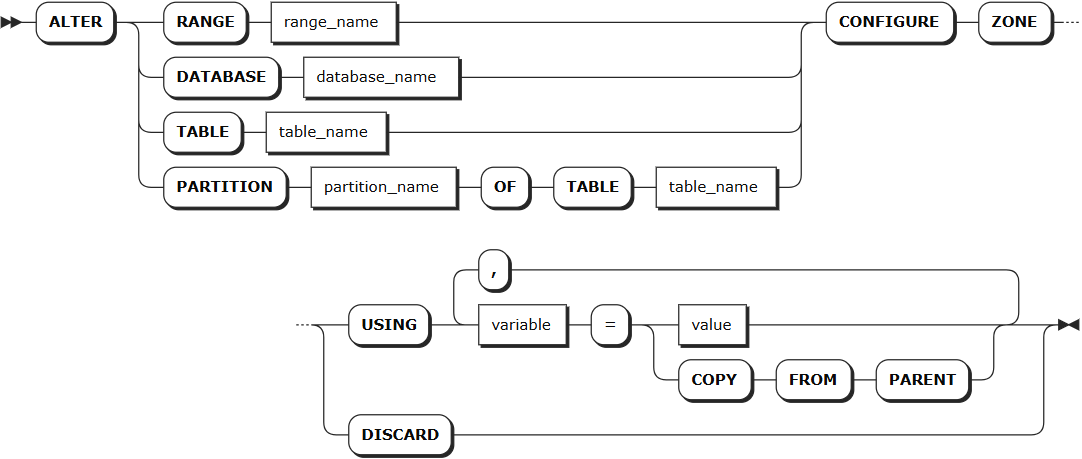
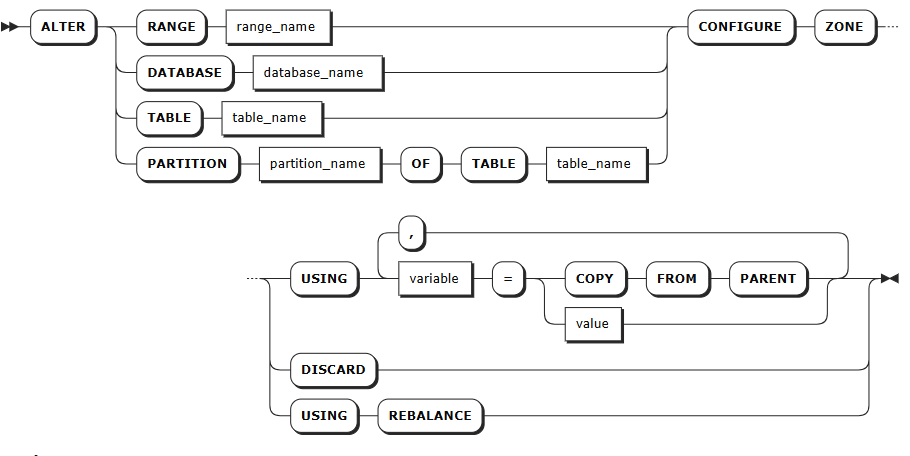
add updates for hash and rebalance

Changed region(s): [[0.0, 0.0, 1.0, 1.0]]

diff --git a/sql-reference/ddl/ts-db/ts-database.md b/sql-reference/ddl/ts-db/ts-database.md
@@ -7,7 +7,6 @@ id: ts-database
 
 作为一款多模数据库系统，KWDB 支持用户在一个 KWDB 实例中创建一个或多个数据库对象（Database）用来管理时序和关系数据。其中专门用于存储和管理时间数据的数据库对象为时序数据库（Time Series Database）。时序数据库中包括 public 模式和用户自定义的时序表。
 
-
 ## 创建数据库
 
 `CREATE TS DATABASE` 语句用于创建时序数据库，每条语句只支持创建一个时序数据库。
@@ -207,11 +206,15 @@ USE ts_db;
 
 ## 修改数据库
 
-`ALTER DATABASE` 语句用于修改数据库的名称和生命周期。
+`ALTER DATABASE` 语句用于修改数据库的名称、生命周期和区域配置。
 
 ### 所需权限
 
-用户为 Admin 用户或者 Admin 角色成员。
+- 修改数据库的名称：用户为 Admin 用户或者 Admin 角色成员。
+- 修改数据库生命周期：用户为 Admin 用户或者 Admin 角色成员。
+- 修改数据库区域设置
+  - 修改系统数据库区域配置：用户为 Admin 用户或 Admin 角色成员。
+  - 修改其他数据库区域配置：用户拥有目标数据库的 CREATE 或 ZONECONFIG 权限。
 
 ### 语法格式
 
@@ -223,6 +226,10 @@ USE ts_db;
 
     ![](../../../static/sql-reference/Ab69bP86UozqWDxtCLMc3vxznwh.png)
 
+- 修改数据库的区域配置
+
+    ![](../../../static/sql-reference/alter-db-zone-ts.png)
+
 ### 参数说明
 
 | 参数 | 说明 |
@@ -231,6 +238,11 @@ USE ts_db;
 | `new_name` | 拟修改的数据库名称，新数据库名称必须唯一，并且遵循[数据库标识符规则](../../sql-identifiers.md)。目前，数据库名称不支持中文字符，最大长度不能超过 63 个字节。|
 | `database_name` | 待修改的数据库名称。|
 | `keep_duration` | 可选参数，设置数据库的数据生命周期。数据超过此时长后将被系统自动清除。<br>默认值： `0s`（永久保留）<br>时间单位：<br>- 秒：`s` 或 `second`<br>- 分钟：`m` 或 `minute`<br>- 小时：`h` 或 `hour`<br>- 天：`d` 或 `day`<br>- 周：`w` 或 `week`<br>- 月：`mon` 或 `month`<br>- 年：`y` 或 `year`<br>取值范围:正整数，上限为 1000 年<br>**说明：**<br>- 表级设置优先于库级设置。<br>- 保留时长越长，存储空间占用越大，请根据业务需求合理配置。<br>- 如果待写入的数据已超过生命周期限制，系统会直接丢弃该数据，不予写入。|
+| `variable` | 要修改的变量名，时序库支持修改以下变量：<br>- `range_min_bytes`：分区的最小大小，单位为字节。分区小于该值时，KaiwuDB 会将其与相邻分区合并。默认值：256 MiB，设置值应大于 1 MiB（1048576 字节），小于分区的最大大小。 <br>- `range_max_bytes`：分区的最大大小，单位为字节。分区大于该值时，KaiwuDB 会将其切分到两个分区。默认值： 512 MiB。设置值不得小于 5 MiB（5242880 字节）。<br>- `gc.ttlseconds`：数据在垃圾回收前保留的时间，单位为秒。默认值为 `90000`（25 小时）。设置值建议不小于 600 秒（10 分钟），以免影响长时间运行的查询。设置值较小时可以节省磁盘空间，设置值较大时会增加 `AS OF SYSTEM TIME` 查询的时间范围。另外，由于每行的所有版本都存储在一个永不拆分的单一分区内，不建议将该值设置得太大，以免单行的所有更改累计超过 64 MiB，导致内存不足或其他问题。<br>- `num_replicas`：副本数量。默认值为 3。`system` 数据库、`meta`、`liveness` 和 `system` 分区的默认副本数为 5。 **注意**：集群中存在不可用节点时，副本数量不可缩减。<br>- `ts_merge.days`：时序分区合并时间。同一个时序表同哈希点按照时间戳分裂后，超过该时间的分区将自动合并，且合并后不会再自动拆分。默认值：10（10天）。设置值必须大于等于 0，设置值为 0 时表示时序分区按照时间戳分裂后便立刻自动合并。系统分区数量过多导致出现网络等故障时可以将该值适当调小，以缓解数据过大的问题。**提示：**  KaiwuDB 默认只根据哈希点拆分分区，因此分区按时间合并功能默认关闭，如需支持按时间合并分区，需将 `kv.kvserver.ts_split_interval` 实时参数设置为 `1`, 将 `kv.kvserver.ts_split_by_timestamp.enabled` 实时参数设置为 `true` 以支持按照哈希点和时间戳拆分分区。 |
+| `value` | 变量值。 |
+|`COPY FROM PARENT`| 使用父区域的设置值。|
+|`USING REBALANCE` | 手动触发数据分片的区域重新分配和负载均衡。<br><br>适用于以下场景：<br>- 关闭自动均衡后的主动调优<br>- 负载不均时的人工干预<br><br>KaiwuDB 默认自动执行后台数据分片均衡，用户通过 `SET CLUSTER SETTING kv.allocator.ts_consider_rebalance.enabled = false;` 关闭自动均衡功能后，可在系统低负载时段进行手动均衡。<br><br>注意：<br>- 该功能仅适用于用户数据分片，不适用于系统数据分片<br>- 建议在业务低峰期执行，避免影响正常业务性能。 |
+|`DISCARD` | 移除区域配置，采用默认值。|
 
 ### 语法示例
 
@@ -248,6 +260,29 @@ USE ts_db;
 
     ```sql
     ALTER TS DATABASE tsdb SET RETENTIONS = 10 day;
+    ```
+
+- 修改数据库的区域配置。
+  
+    以下示例将 `tsdb` 数据库的副本数改为5个，将数据在垃圾回收前保留的时间改为100000秒。
+
+    ```SQL
+    -- 1. 修改区域配置
+    > ALTER DATABASE tsdb CONFIGURE ZONE USING num_replicas = 5, gc.ttlseconds = 100000;
+    CONFIGURE ZONE 1
+
+    -- 2. 查看修改是否成功
+    > SHOW ZONE CONFIGURATION FOR DATABASE tsdb;
+    zone_name |               config_sql                 
+    +-----------+-----------------------------------------+
+    tsdb       | ALTER DATABASE tsdb CONFIGURE ZONE USING  
+              |     range_min_bytes = 268435456,          
+              |     range_max_bytes = 536870912,          
+              |     gc.ttlseconds = 100000,              
+              |     num_replicas = 5,                    
+              |     constraints = '[]',                  
+              |     lease_preferences = '[]'             
+    (6 rows)
     ```
 
 ## 删除数据库

diff --git a/db-administration/db-mgmt/db-mgmt-ts.md b/db-administration/db-mgmt/db-mgmt-ts.md
@@ -206,7 +206,7 @@ USE ts_db;
 
 ## 修改数据库
 
-KWDB 支持修改数据库的名称和生命周期。
+KWDB 支持修改数据库的名称、生命周期和区域配置。
 
 ### 前提条件
 
@@ -215,6 +215,9 @@ KWDB 支持修改数据库的名称和生命周期。
   - 目标数据库不是当前数据库。
 - 修改数据库生命周期
   - 用户为 Admin 用户或者 Admin 角色成员。
+- 修改数据库区域设置
+  - 修改系统数据库区域配置：用户为 Admin 用户或 Admin 角色成员。
+  - 修改其他数据库区域配置：用户拥有目标数据库的 CREATE 或 ZONECONFIG 权限。
 
 ### 语法格式
 
@@ -230,6 +233,13 @@ KWDB 支持修改数据库的名称和生命周期。
     ALTER TS DATABASE <db_name> SET RETENTIONS = <keep_duration>;
     ```
 
+- 修改数据库区域配置
+  
+  ```sql
+  ALTER DATABASE <db_name> CONFIGURE ZONE 
+  [USING <variable> = [COPY FROM PARENT | <value>], <variable> = [<value> | COPY FROM PARENT], ... | USING REBALANCE | DISCARD];
+  ```
+
 ### 参数说明
 
 | 参数 | 说明 |
@@ -238,6 +248,11 @@ KWDB 支持修改数据库的名称和生命周期。
 | `new_name` | 拟修改的数据库名称，新数据库名称必须唯一，并且[遵循数据库标识符规则](../../sql-reference/sql-identifiers.md)。目前，数据库名称不支持中文字符，最大长度不能超过 63 个字节。|
 | `db_name` | 待修改的数据库名称。|
 | `keep_duration` | 可选参数，设置数据库的数据生命周期。数据超过此时长后将被系统自动清除。<br>默认值： `0s`（永久保留）<br>时间单位：<br>- 秒：`s` 或 `second`<br>- 分钟：`m` 或 `minute`<br>- 小时：`h` 或 `hour`<br>- 天：`d` 或 `day`<br>- 周：`w` 或 `week`<br>- 月：`mon` 或 `month`<br>- 年：`y` 或 `year`<br>取值范围:正整数，上限为 1000 年<br>**说明：**<br>- 表级设置优先于库级设置。<br>- 保留时长越长，存储空间占用越大，请根据业务需求合理配置。<br>- 如果待写入的数据已超过生命周期限制，系统会直接丢弃该数据，不予写入。|
+| `variable` | 要修改的变量名，时序库支持修改以下变量：<br>- `range_min_bytes`：数据分片的最小大小，单位为字节。数据分片小于该值时，KaiwuDB 会将其与相邻数据分片合并。默认值：256 MiB，设置值应大于 1 MiB（1048576 字节），小于数据分片的最大大小。 <br>- `range_max_bytes`：数据分片的最大大小，单位为字节。数据分片大于该值时，KaiwuDB 会将其切分到两个数据分片。默认值： 512 MiB。设置值不得小于 5 MiB（5242880 字节）。<br>- `gc.ttlseconds`：数据在垃圾回收前保留的时间，单位为秒。默认值为 `90000`（25 小时）。设置值建议不小于 600 秒（10 分钟），以免影响长时间运行的查询。设置值较小时可以节省磁盘空间，设置值较大时会增加 `AS OF SYSTEM TIME` 查询的时间范围。另外，由于每行的所有版本都存储在一个永不拆分的单一数据分片内，不建议将该值设置得太大，以免单行的所有更改累计超过 64 MiB，导致内存不足或其他问题。<br>- `num_replicas`：副本数量。默认值为 3。`system` 数据库、`meta`、`liveness` 和 `system` 数据分片的默认副本数为 5。 **注意**：集群中存在不可用节点时，副本数量不可缩减。<br>- `ts_merge.days`：时序数据分片合并时间。同一个时序表同哈希点按照时间戳分裂后，超过该时间的数据分片将自动合并，且合并后不会再自动拆分。默认值：10（10天）。设置值必须大于等于 0，设置值为 0 时表示时序数据分片按照时间戳分裂后便立刻自动合并。系统数据分片数量过多导致出现网络等故障时可以将该值适当调小，以缓解数据过大的问题。**提示：**  KaiwuDB 默认只根据哈希点拆分数据分片，因此数据分片按时间合并功能默认关闭，如需支持按时间合并数据分片，需将 `kv.kvserver.ts_split_interval` 实时参数设置为 `1`, 将 `kv.kvserver.ts_split_by_timestamp.enabled` 实时参数设置为 `true` 以支持按照哈希点和时间戳拆分数据分片。 |
+| `value` | 变量值。 |
+|`COPY FROM PARENT`| 使用父区域的设置值。|
+|`USING REBALANCE` | 手动触发数据分片的区域重新分配和负载均衡。<br><br>适用于以下场景：<br>- 关闭自动均衡后的主动调优<br>- 负载不均时的人工干预<br><br>KaiwuDB 默认自动执行后台数据分片均衡，用户通过 `SET CLUSTER SETTING kv.allocator.ts_consider_rebalance.enabled = false;` 关闭自动均衡功能后，可在系统低负载时段进行手动均衡。<br><br>注意：<br>- 该功能仅适用于用户数据分片，不适用于系统数据分片<br>- 建议在业务低峰期执行，避免影响正常业务性能。 |
+|`DISCARD` | 移除区域配置，采用默认值。|
 
 ### 语法示例
 
@@ -255,6 +270,29 @@ KWDB 支持修改数据库的名称和生命周期。
 
     ```sql
     ALTER TS DATABASE tsdb SET RETENTIONS = 10 day;
+    ```
+
+- 修改数据库的区域配置。
+  
+    以下示例将 `tsdb` 数据库的副本数改为5个，将数据在垃圾回收前保留的时间改为100000秒。
+
+    ```SQL
+    -- 1. 修改区域配置
+    > ALTER DATABASE tsdb CONFIGURE ZONE USING num_replicas = 5, gc.ttlseconds = 100000;
+    CONFIGURE ZONE 1
+
+    -- 2. 查看修改是否成功
+    > SHOW ZONE CONFIGURATION FOR DATABASE tsdb;
+    zone_name |               config_sql                 
+    +-----------+-----------------------------------------+
+    tsdb       | ALTER DATABASE tsdb CONFIGURE ZONE USING  
+              |     range_min_bytes = 268435456,          
+              |     range_max_bytes = 536870912,          
+              |     gc.ttlseconds = 100000,              
+              |     num_replicas = 5,                    
+              |     constraints = '[]',                  
+              |     lease_preferences = '[]'             
+    (6 rows)
     ```
 
 ## 删除数据库

diff --git a/sql-reference/ddl/ts-db/ts-zone.md b/sql-reference/ddl/ts-db/ts-zone.md
@@ -145,8 +145,8 @@ id: ts-zone
 | `variable` | 要修改的变量名，时序库支持修改以下变量：<br>- `range_min_bytes`：数据分片的最小大小，单位为字节。数据分片小于该值时，KWDB 会将其与相邻数据分片合并。默认值：256 MiB，设置值应大于 1 MiB（1048576 字节），小于数据分片的最大大小。 <br>- `range_max_bytes`：数据分片的最大大小，单位为字节。数据分片大于该值时，KWDB 会将其切分到两个数据分片。默认值： 512 MiB。设置值不得小于 5 MiB（5242880 字节）。<br>- `gc.ttlseconds`：数据在垃圾回收前保留的时间，单位为秒。默认值为 `90000`（25 小时）。设置值建议不小于 600 秒（10 分钟），以免影响长时间运行的查询。设置值较小时可以节省磁盘空间，设置值较大时会增加 `AS OF SYSTEM TIME` 查询的时间范围。另外，由于每行的所有版本都存储在一个永不拆分的单一数据分片内，不建议将该值设置得太大，以免单行的所有更改累计超过 64 MiB，导致内存不足或其他问题。<br>- `num_replicas`：副本数量。默认值为 3。`system` 数据库、`meta`、`liveness` 和 `system` 数据分片的默认副本数为 5。 **注意**：集群中存在不可用节点时，副本数量不可缩减。<br>- `constraints`：副本位置的必需（+）和/或禁止（-）约束。例如 `constraints = '{+region=node1: 1, +region=node2: 1, +region=node3: 1}'` 表示在 `node1`、`node2`、`node3` 上必须各放置 1 个副本。目前只支持 `region=nodex` 格式。 <br> - `lease_preferences`：主副本位置的必需（+）和/或禁止（-）约束的有序列表。例如 `lease_preferences = '[[+region=node1]]'` 表示倾向将主副本放置在 `node1`。如果不能满足首选项，KWDB 将尝试下一个优先级。如果所有首选项都无法满足，KWDB 将使用默认的租约分布算法，基于每个节点已持有的租约数量来决定租约位置，尝试平衡租约分布。列表中的每个值可以包含多个约束。<br>- `ts_merge.days`：时序数据分片合并时间。同一个时序表同哈希点按照时间戳分裂后，超过该时间的数据分片将自动合并，且合并后不会再自动拆分。默认值：10（10天）。设置值必须大于等于 0，设置值为 0 时表示时序数据分片按照时间戳分裂后便立刻自动合并。系统数据分片数量过多导致出现网络等故障时可以将该值适当调小，以缓解数据过大的问题。<br><br>**提示**：<br>- 租约偏好不必与 `constraints` 字段共享，用户可以单独定义 `lease_preferences`。<br>- 设置 `constraints` 时需要同步设置 `num_replicas`，且 `constraints` 数量需要小于等于 `num_replicas` 数量。`constraints` 中的顺序无影响。<br>- KWDB 默认只根据哈希点拆分数据分片，因此数据分片按时间合并功能默认关闭，如需支持按时间合并数据分片，需将 `kv.kvserver.ts_split_interval` 实时参数设置为 `1`, 将 `kv.kvserver.ts_split_by_timestamp.enabled` 实时参数设置为 `true` 以支持按照哈希点和时间戳拆分数据分片。 |
 | `value` | 变量值。 |
 |`COPY FROM PARENT`| 使用父区域的设置值。|
-|`REBALANCE` | 手动触发数据分片的区域重新分配和负载均衡。<br><br>适用于以下场景：<br>- 关闭自动均衡后的主动调优<br>- 负载不均时的人工干预<br><br>KWDB 默认自动执行后台数据分片均衡，用户通过 `SET CLUSTER SETTING kv.allocator.ts_consider_rebalance.enabled = false;` 关闭自动均衡功能后，可在系统低负载时段进行手动均衡。<br><br>注意：<br>- 该功能仅适用于用户数据分片，不适用于系统数据分片<br>- 建议在业务低峰期执行，避免影响正常业务性能。 |
 |`DISCARD` | 移除区域配置，采用默认值。|
+|`USING REBALANCE` | 手动触发数据库、表、或数据分片的区域重新分配和负载均衡。<br><br>适用于以下场景：<br>- 关闭自动均衡后的主动调优<br>- 负载不均时的人工干预<br><br>KWDB 默认自动执行后台数据分片均衡，用户通过 `SET CLUSTER SETTING kv.allocator.ts_consider_rebalance.enabled = false;` 关闭自动均衡功能后，可在系统低负载时段进行手动均衡。<br><br>注意：<br>- 该功能仅适用于用户数据分片，不适用于系统数据分片<br>- 建议在业务低峰期执行，避免影响正常业务性能。 |
 
 ### 语法示例
 

diff --git a/db-administration/db-object-mgmt/ts-db/table-mgmt-ts.md b/db-administration/db-object-mgmt/ts-db/table-mgmt-ts.md
@@ -21,7 +21,8 @@ CREATE TABLE <table_name> (<column_list>)
 PRIMARY [TAGS|ATTRIBUTES] (<primary_tag_list>) 
 [RETENTIONS <keep_duration>]
 [DICT ENCODING]
-[COMMENT [=] <'comment_text'>];
+[COMMENT [=] <'comment_text'>]
+[WITH HASH(<hash_value>)];
 ```
 
 ### 参数说明
@@ -40,6 +41,7 @@ PRIMARY [TAGS|ATTRIBUTES] (<primary_tag_list>)
 | `keep_duration` | 可选参数，设置表的数据生命周期。数据超过此时长后将被系统自动清除。<br>默认值： `0s`（永久保留）<br>时间单位：<br>- 秒：`s` 或 `second`<br>- 分钟：`m` 或 `minute`<br>- 小时：`h` 或 `hour`<br>- 天：`d` 或 `day`<br>- 周：`w` 或 `week`<br>- 月：`mon` 或 `month`<br>- 年：`y` 或 `year`<br>取值范围:正整数，上限为 1000 年<br>**说明：**<br>- 表级设置优先于库级设置。<br>- 保留时长越长，存储空间占用越大，请根据业务需求合理配置。<br>- 如果待写入的数据已超过生命周期限制，系统会直接丢弃该数据，不予写入。|
 | `DICT ENCODING`| 可选参数，启用字符串的字典编码功能，提升字符串数据的压缩能力。表中存储的字符串数据重复率越高，压缩优化效果越明显。该功能只适用于 CHAR 和 VARCHAR 长度小于等于 `1023` 的字符串，且只能在建表时开启。开启后不支持禁用。 |
 | `[COMMENT [=] <'comment_text'>` | 可选项，定义表的注释信息。 |
+| `hash_value`| 可选参数，用于定义分布式集群中 HASH 环的大小，决定最大 Range 分片数量。例如 HASH(100) 表示最多可产生 100 个不同的 Range 分片。<br><br>默认值为 2000，表示最多可产生 2000 个 Range 分片。支持设置范围为 [1,50000]。<br><br>性能影响：HASH 值过小时将导致多个设备的数据集中在少数 Range 中，形成写入热点，HASH 值过大时则会导致 Range 数量过多，增加管理开销。<br><br>推荐配置：建议根据预期设备数量选择合适的 HASH 值：<br>- 设备数 ≤ 1,000：HASH 值 < 20<br>- 设备数 ≤ 50,000：HASH 值 < 2,000<br>- 设备数 ≤ 1,000,000：HASH 值 < 10,000 <br><br>最佳实践：建议配合集群参数 `SET CLUSTER SETTING sql.ts_create.leaseholder_auto_relocated.enabled = true;`使用，可在建表时自动将 Range 分片和 Leaseholder 均匀分布到各节点，从源头避免热点问题。 |
 
 ### 语法示例
 
@@ -110,6 +112,14 @@ PRIMARY [TAGS|ATTRIBUTES] (<primary_tag_list>)
     ```sql
     CREATE TABLE device_info (create_time TIMESTAMPZ NOT NULL, device_id INT COMMENT 'device ID' NOT NULL, install_date TIMESTAMPZ, warranty_period INT2) TAGS (plant_code INT2 NOT NULL COMMENT = 'plant code', workshop VARCHAR(128) NOT NULL, device_type CHAR(1023) NOT NULL, manufacturer NCHAR(254) NOT NULL) PRIMARY TAGS(plant_code, workshop, device_type, manufacturer) COMMENT = 'table for device information';
     CREATE 
+    ```
+
+- 创建时序表并设置 HASH 环大小。
+
+    以下示例创建一个名为 `sensors` 的时序表并将 HASH 环大小设置为 20。
+
+    ```sql
+    CREATE TABLE sensors (ts TIMESTAMP NOT NULL, value FLOAT) TAGS (sensor_id INT NOT NULL) PRIMARY TAGS (sensor_id) WITH HASH(20);
     ```
 
 ## 查看表

diff --git a/sql-reference/ddl/ts-db/ts-table.md b/sql-reference/ddl/ts-db/ts-table.md
@@ -34,6 +34,8 @@ id: ts-table
 | `primary_tag_list`| 主标签列表，支持添加一个或多个主标签名称，最多可指定 `4` 个。主标签必须包含在标签列表内且指定为 NOT NULL，不支持浮点类型和除 VARCHAR 之外的变长数据类型。VARCHAR 类型长度默认 `64` 字节，最大长度为 `128` 字节。|
 | `keep_duration` | 可选参数，设置表的数据生命周期。数据超过此时长后将被系统自动清除。<br>默认值： `0s`（永久保留）<br>时间单位：<br>- 秒：`s` 或 `second`<br>- 分钟：`m` 或 `minute`<br>- 小时：`h` 或 `hour`<br>- 天：`d` 或 `day`<br>- 周：`w` 或 `week`<br>- 月：`mon` 或 `month`<br>- 年：`y` 或 `year`<br>取值范围:正整数，上限为 1000 年<br>**说明：**<br>- 表级设置优先于库级设置。<br>- 保留时长越长，存储空间占用越大，请根据业务需求合理配置。<br>- 如果待写入的数据已超过生命周期限制，系统会直接丢弃该数据，不予写入。|
 | `DICT ENCODING`| 可选参数，启用字符串的字典编码功能，提升字符串数据的压缩能力。表中存储的字符串数据重复率越高，压缩优化效果越明显。该功能只适用于 CHAR 和 VARCHAR 长度小于等于 `1023` 的字符串，且只能在建表时开启。开启后不支持禁用。 |
+| `[COMMENT [=] <'comment_text'>` | 可选参数，定义表的注释信息。 |
+| `hash_value`| 可选参数，用于定义分布式集群中 HASH 环的大小，决定最大 Range 分片数量。例如 HASH(100) 表示最多可产生 100 个不同的 Range 分片。<br><br>默认值为 2000，表示最多可产生 2000 个 Range 分片。支持设置范围为 [1,50000]。<br><br>性能影响：HASH 值过小时将导致多个设备的数据集中在少数 Range 中，形成写入热点，HASH 值过大时则会导致 Range 数量过多，增加管理开销。<br><br>推荐配置：建议根据预期设备数量选择合适的 HASH 值：<br>- 设备数 ≤ 1,000：HASH 值 < 20<br>- 设备数 ≤ 50,000：HASH 值 < 2,000<br>- 设备数 ≤ 1,000,000：HASH 值 < 10,000 <br><br>最佳实践：建议配合集群参数 `SET CLUSTER SETTING sql.ts_create.leaseholder_auto_relocated.enabled = true;`使用，可在建表时自动将 Range 分片和 Leaseholder 均匀分布到各节点，从源头避免热点问题。 |
 
 ### 语法示例
 
@@ -104,6 +106,14 @@ id: ts-table
     ```sql
     CREATE TABLE device_info (create_time TIMESTAMPZ NOT NULL, device_id INT COMMENT 'device ID' NOT NULL, install_date TIMESTAMPZ, warranty_period INT2) TAGS (plant_code INT2 NOT NULL COMMENT = 'plant code', workshop VARCHAR(128) NOT NULL, device_type CHAR(1023) NOT NULL, manufacturer NCHAR(254) NOT NULL) PRIMARY TAGS(plant_code, workshop, device_type, manufacturer) COMMENT = 'table for device information';
     CREATE TABLE
+    ```
+
+- 创建时序表并设置 HASH 环大小。
+
+    以下示例创建一个名为 `sensors` 的时序表并将 HASH 环大小设置为 20。
+
+    ```sql
+    CREATE TABLE sensors (ts TIMESTAMP NOT NULL, value FLOAT) TAGS (sensor_id INT NOT NULL) PRIMARY TAGS (sensor_id) WITH HASH(20);
     ```
 
 ## 查看表

diff --git a/db-operation/cluster-ha.md b/db-operation/cluster-ha.md
@@ -60,7 +60,7 @@ KWDB 集群启动后，分片副本均匀分布在所有节点上，确保数据
 
 ##### 依次故障
 
-如果两个节点依次发生故障，当第二个节点发生故障前系统已完成副本补足，则第二个节点发生故障后，系统仍支持正常运行。
+如果两个节点依次发生故障，当第二个节点故障前系统已完成副本补足，则第二个节点故障后，系统仍可正常运行。注意：在 5 节点三副本集群中禁用副本自动补足功能后，将无法承受连续的节点故障。
 
 <img src="../static/db-operation/recover.png" alt="img" style="zoom:75%;" />
 
@@ -92,6 +92,16 @@ SET CLUSTER SETTING server.time_until_store_dead = <value>;
 
 设置时间建议不小于 75s。注意：延长节点判定时间，可以减少节点故障对集群性能的长时间影响，但可能会影响集群的高可用性功能和 DDL 相关操作。
 
+### 控制节点死亡后是否自动迁移补齐副本
+
+系统将离线节点标记为不可用节点后，如果剩余节点数量仍大于副本数，系统将自动补足缺失的副本，确保数据的高可用性。用户也可以通过以下 SQL 命令关闭自动补足副本功能：
+
+```SQL
+SET CLUSTER SETTING kv.allocator.ts_store_dead_rebalance.enabled = false;
+```
+
+注意：在 5 节点三副本集群中禁用该功能后，将无法承受连续节点故障。
+
 #### 查看节点状态
 
 使用 `kwbase` 命令查询节点状态:
@@ -111,3 +121,7 @@ SET CLUSTER SETTING server.time_until_store_dead = <value>;
       sum((metrics->>'ranges.underreplicated')::DECIMAL)::INT As ranges_underreplicated
   FROM kwdb_internal.kv_store_status;
   ```
+
+### 查看副本同步状态
+
+  通过导入[分布式面板](https://gitee.com/kwdb/kwdb/blob/master/kwbase/monitoring/grafana-dashboards/6.KaiwuDB_Console_Replication.json)查看副本同步情况。
